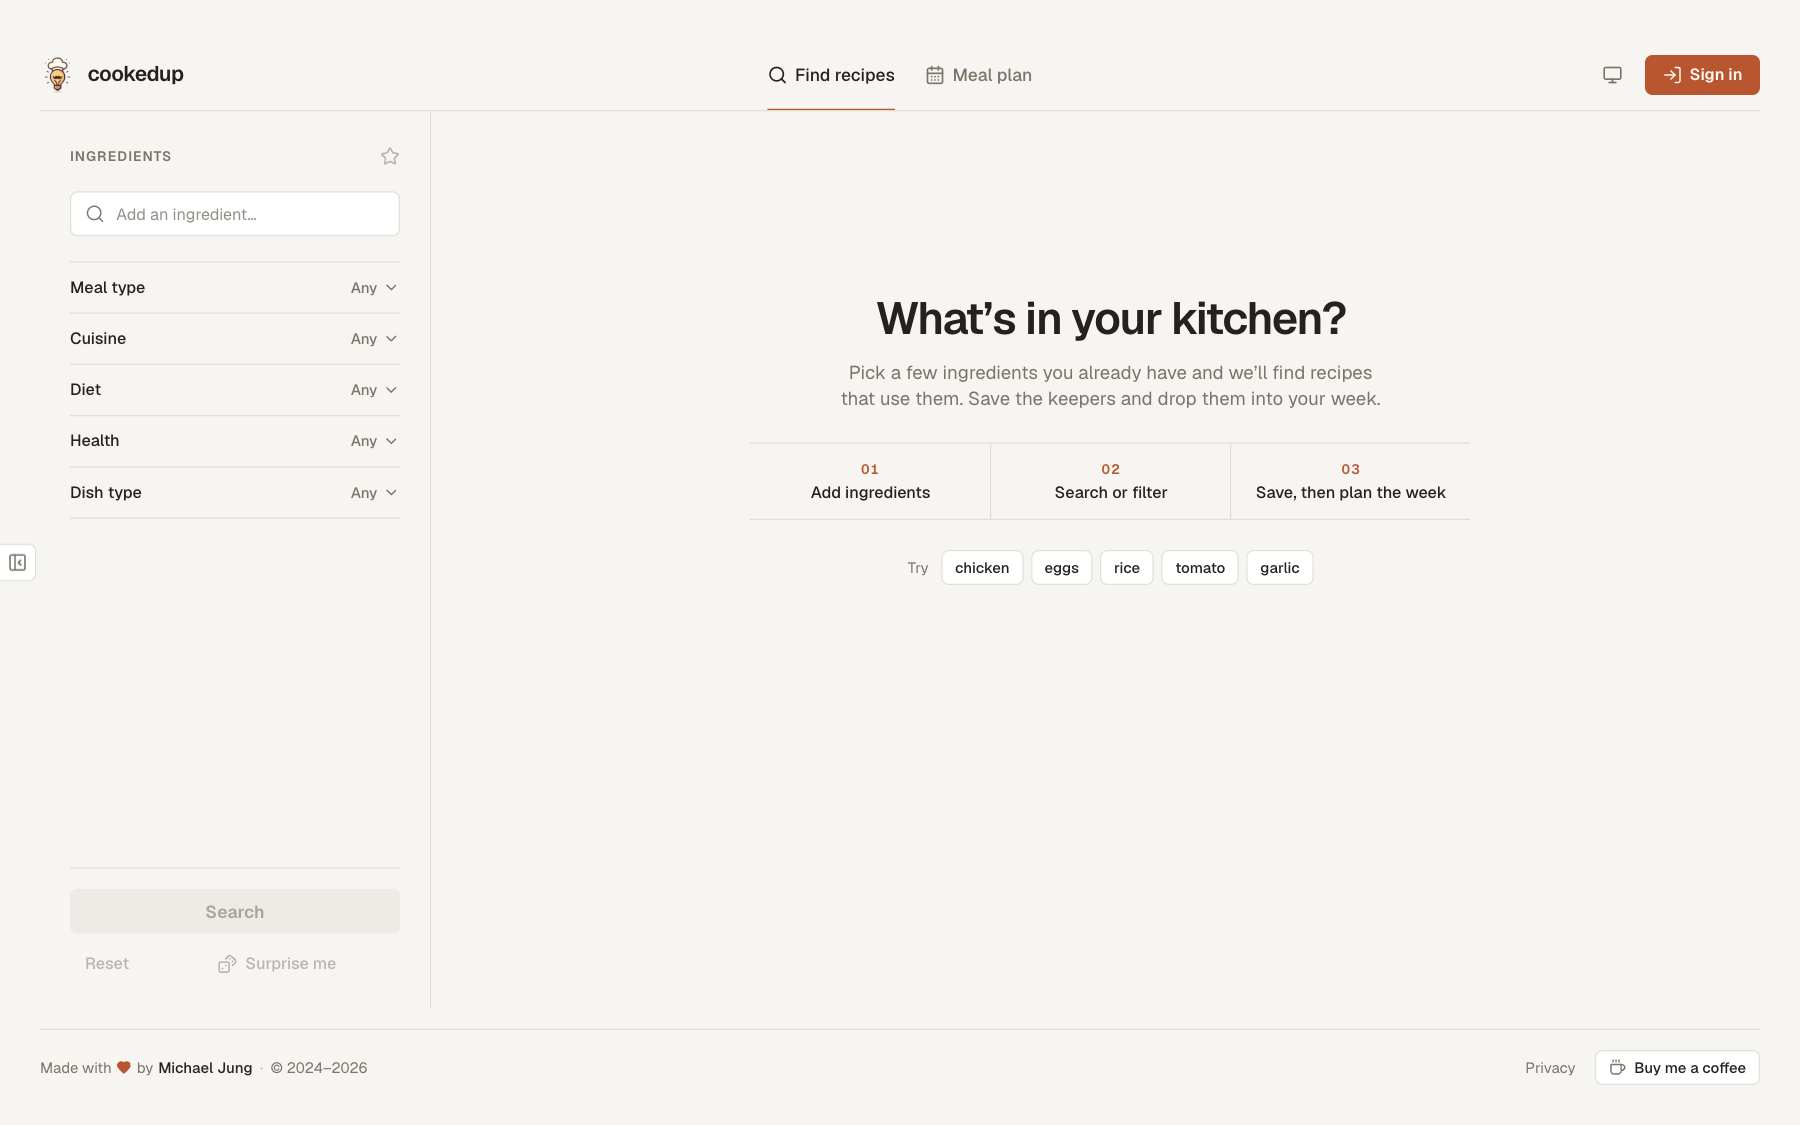
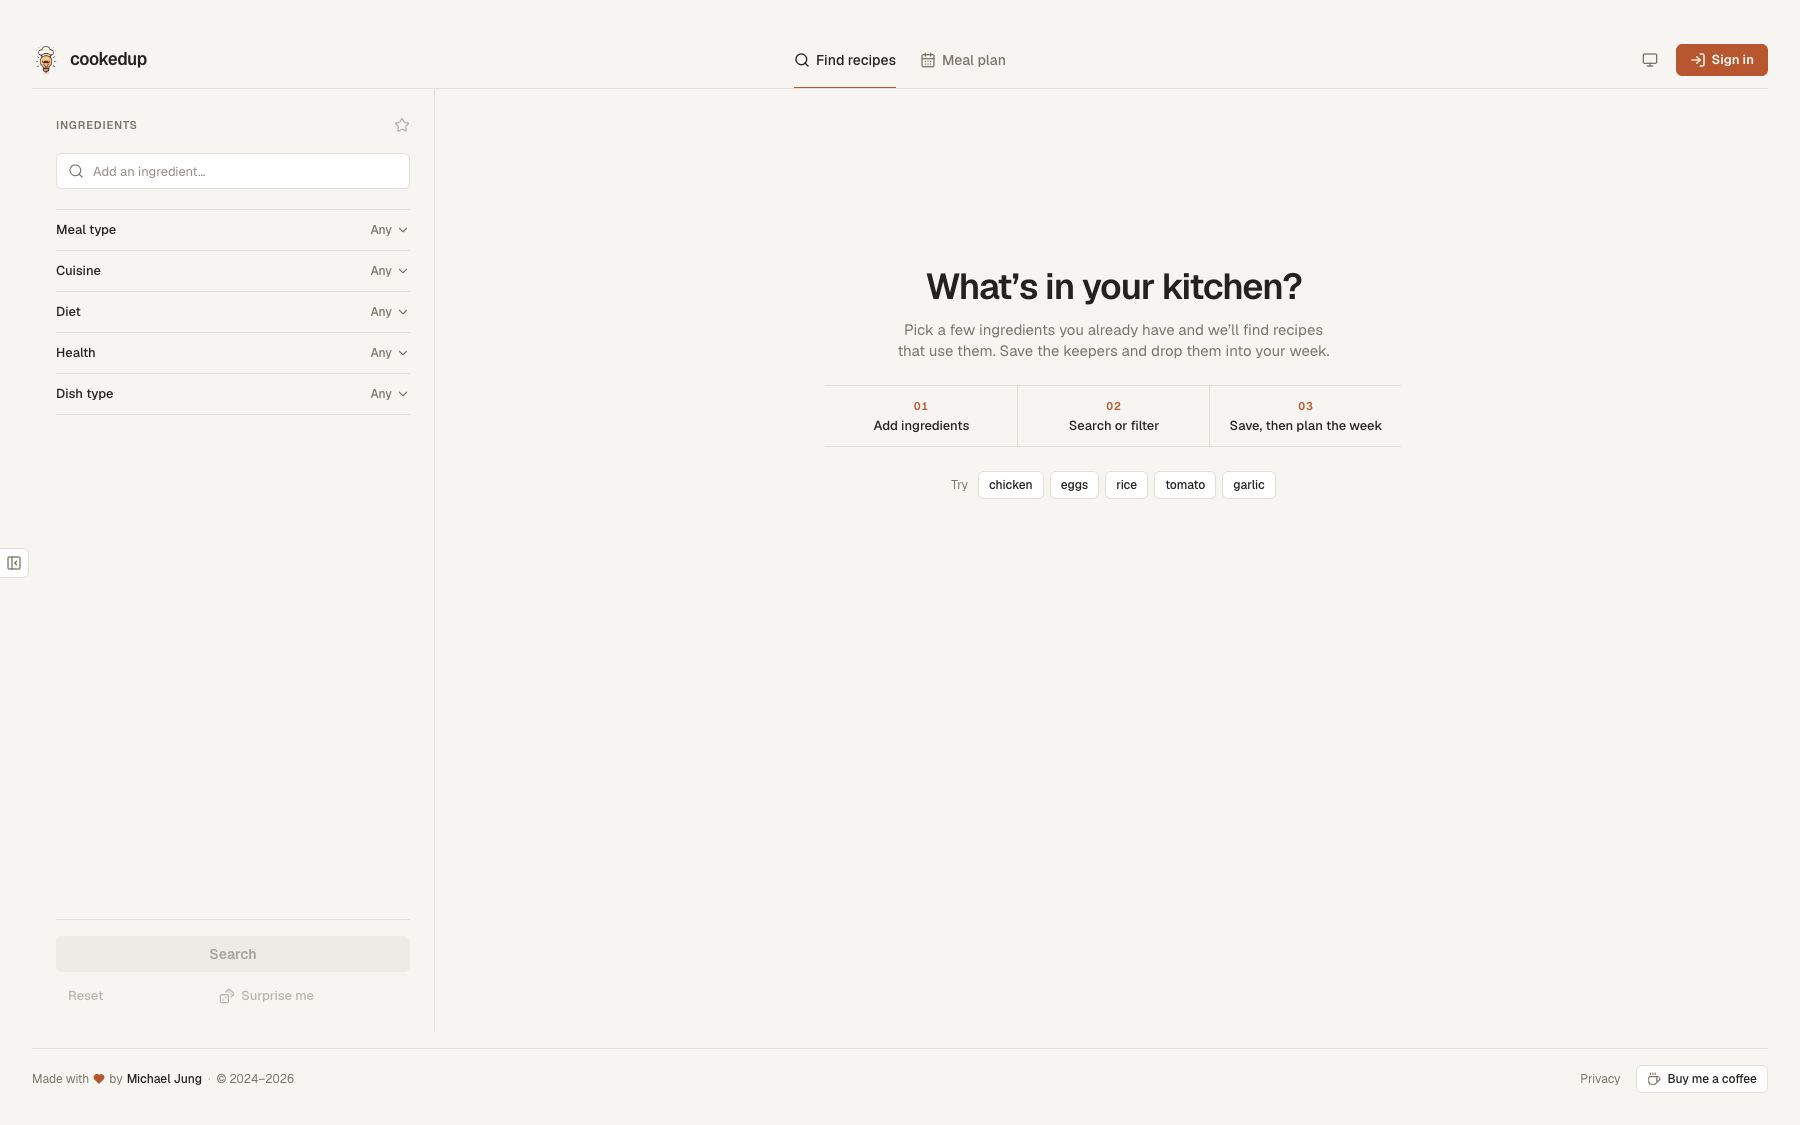
Make README screenshots follow dark mode and add meal planning shots

diff --git a/README.md b/README.md
@@ -34,9 +34,32 @@ You tell it what's in the fridge; it tells you what to cook. No account needed t
 - **Sign in with Google or a magic link**, in light or dark mode, on desktop or phone.
 
 <p align="center">
-  <img src="./.github/readme/empty-light.png" alt="The empty state: what's in your kitchen?" width="68%">
+  <picture>
+    <source media="(prefers-color-scheme: dark)" srcset="./.github/readme/empty-dark.png">
+    <img src="./.github/readme/empty-light.png" alt="The empty state: what's in your kitchen?" width="68%">
+  </picture>
   &nbsp;
-  <img src="./.github/readme/phone-light.png" alt="Search results on a phone" width="20%">
+  <picture>
+    <source media="(prefers-color-scheme: dark)" srcset="./.github/readme/phone-dark.jpg">
+    <img src="./.github/readme/phone-light.jpg" alt="Search results on a phone" width="20%">
+  </picture>
+</p>
+
+<picture>
+  <source media="(prefers-color-scheme: dark)" srcset="./.github/readme/plan-week-dark.png">
+  <img src="./.github/readme/plan-week-light.png" alt="A week of meals planned by slot, with overnight oats repeating every weekday" width="100%">
+</picture>
+
+<p align="center">
+  <picture>
+    <source media="(prefers-color-scheme: dark)" srcset="./.github/readme/plan-month-dark.png">
+    <img src="./.github/readme/plan-month-light.png" alt="The same plan in month view" width="68%">
+  </picture>
+  &nbsp;
+  <picture>
+    <source media="(prefers-color-scheme: dark)" srcset="./.github/readme/phone-plan-dark.png">
+    <img src="./.github/readme/phone-plan-light.png" alt="One day of the plan on a phone" width="18%">
+  </picture>
 </p>
 
 ## How it's built
